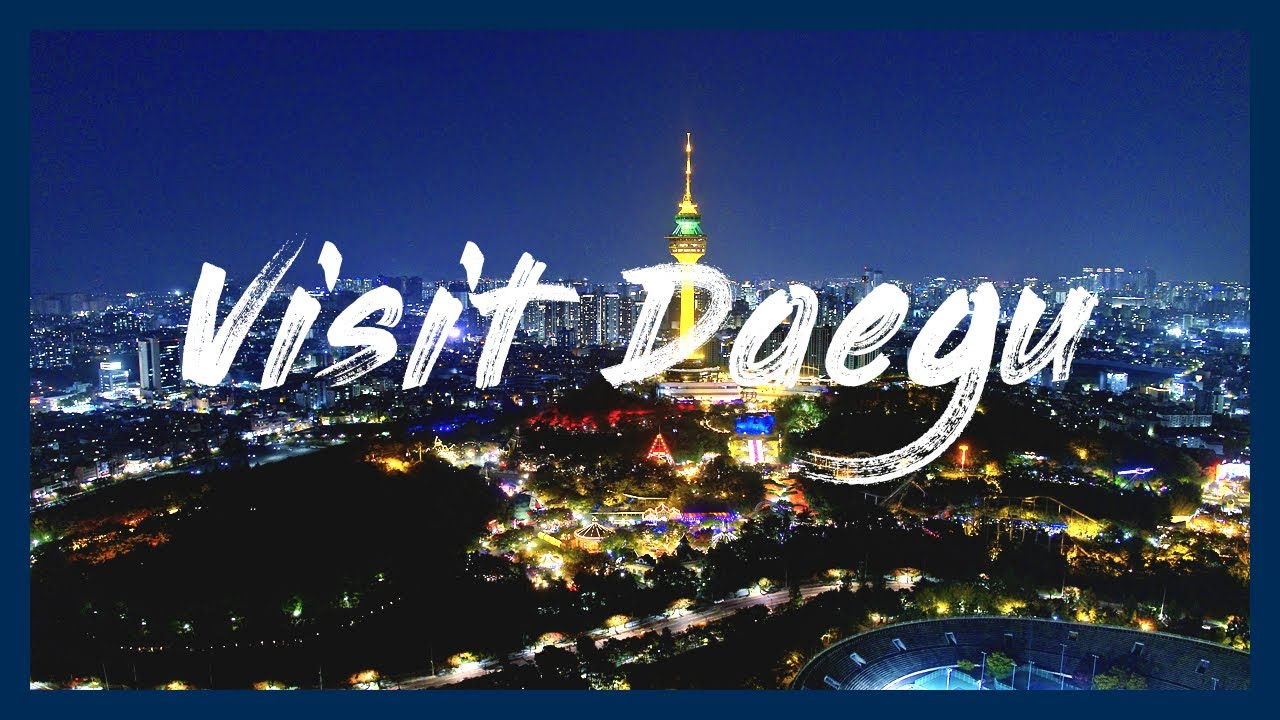
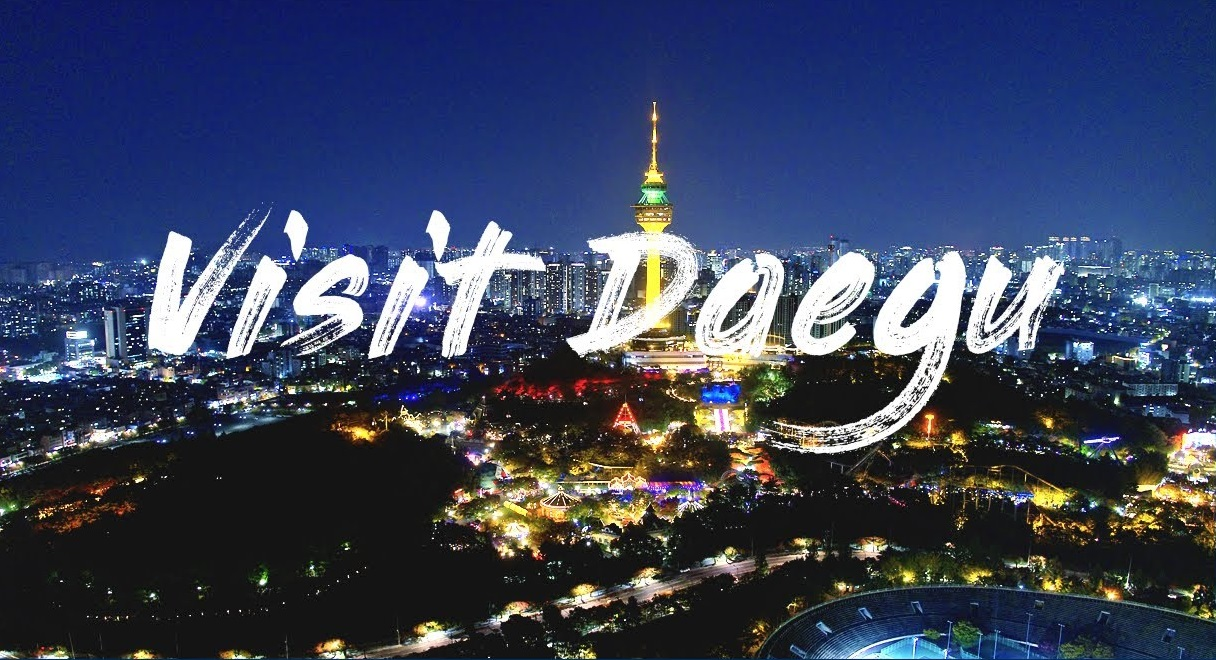
화면 왼쪽 아래 여행지 추천 배너 완성, 오른쪽 임시파일 추가, 왼쪽 임시 배너이미지 3개 추가

diff --git a/src/main/frontend/src/global/left_banner/left_banner.css b/src/main/frontend/src/global/left_banner/left_banner.css
@@ -1,0 +1,75 @@
+.left-banner {
+    position: relative; /* 배너를 상대 위치로 설정 */
+    width: 100%; /* 배너의 너비를 100%로 설정 */
+    height: 400px; /* 배너의 높이 설정 */
+    overflow: hidden; /* 이미지가 배너 영역을 벗어나는 것을 숨김 */
+    margin-top: 50px; /* 아래로 내리기 - 원하는 만큼 값 조정*/
+}
+
+.left-carousel {
+    position: relative; /* Carousel에 위치 속성을 추가 */
+    height: 100%; /* Carousel의 높이를 배너와 같게 설정 */
+}
+
+/* 슬라이드 스타일 */
+.left-carousel-slide {
+    position: absolute; /* 슬라이드를 절대 위치로 설정 */
+    top: 0;
+    left: 0;
+    width: 100%; /* 슬라이드의 너비를 100%로 설정 */
+    height: 100%; /* 슬라이드의 높이를 배너와 같게 설정 */
+    opacity: 0; /* 기본적으로 숨김 */
+    transition: opacity 1s ease-in-out; /* 부드러운 전환 효과 추가 */
+}
+
+/* 활성화된 슬라이드 표시 */
+.left-carousel-slide.active {
+    opacity: 1; /* 활성화된 슬라이드는 보이게 설정 */
+}
+
+/* 좌우 네비게이션 버튼을 배너의 이미지 안에 배치 */
+.left-control-prev,
+.left-control-next {
+    position: absolute; /* 절대 위치 설정 */
+    top: 50%; /* 이미지 중앙에 위치하도록 설정 */
+    transform: translateY(-50%); /* 세로 중앙 정렬 */
+    width: 50px; /* 버튼 크기 */
+    height: 50px; /* 버튼 크기 */
+    background-color: rgba(0, 0, 0, 0.5); /* 불투명한 배경 */
+    border-radius: 50%; /* 둥근 모양 */
+    display: flex;
+    justify-content: center;
+    align-items: center;
+    cursor: pointer; /* 마우스 커서 변경 */
+    opacity: 0; /* 기본적으로 숨김 */
+    transition: opacity 1s ease; /* 부드러운 전환 효과 */
+}
+
+/* 왼쪽 버튼 위치 조정 */
+.left-control-prev {
+    left: 10px; /* 이미지 왼쪽에 위치 */
+}
+
+/* 오른쪽 버튼 위치 조정 */
+.left-control-next {
+    right: 10px; /* 이미지 오른쪽에 위치 */
+}
+
+/* 각 슬라이드 이미지 스타일 */
+.left-banner-image {
+    width: 100%; /* 부모 요소(슬라이드)에 맞게 이미지 크기 조정 */
+    height: 100%; /* 부모 요소와 높이를 같게 설정 */
+    object-fit: cover; /* 이미지 비율 유지하며 잘리지 않도록 */
+}
+
+/* 배너에 마우스 오버 시 버튼 보이기 */
+.left-carousel:hover .left-control-prev,
+.left-carousel:hover .left-control-next {
+    opacity: 1; /* 마우스 오버 시 보이도록 설정 */
+}
+
+/* 버튼에 마우스를 올렸을 때 불투명한 검은색으로 변경 */
+.left-control-prev:hover,
+.left-control-next:hover {
+    background-color: rgba(0, 0, 0, 0.5); /* 완전 불투명한 검은색 */
+}

diff --git a/src/main/frontend/src/global/banner/Banner.css b/src/main/frontend/src/global/banner/Banner.css
@@ -1,16 +1,48 @@
+
+.carousel {
+  position: relative; /* Carousel에 위치 속성을 추가 */
+}
+
+/* 좌우 네비게이션 버튼을 배너의 아래쪽 중간에 배치 */
+.carousel .control-prev,
+.carousel .control-next {
+  position: absolute;
+  bottom: 10px; /* 하단에서 10px 떨어진 위치 */
+  width: 50px; /* 버튼 크기 */
+  height: 50px;
+  background-color: rgba(0, 0, 0, 1); /* 반투명 배경 */
+  border-radius: 50%; /* 둥근 모양 */
+  z-index: 1; /* 배너 위에 표시 */
+  display: flex;
+  justify-content: center;
+  align-items: center;
+  transform: translateY(80px); /* 버튼을 아래로 20px 이동 */
+}
+
+.carousel .control-prev {
+  left: 10px; /* 왼쪽 버튼 위치 조정 */
+}
+
+.carousel .control-next {
+  right: 10px; /* 오른쪽 버튼 위치 조정 */
+}
+
+
+
 .carousel-slide {
-  display: flex; /* Flexbox를 사용하여 이미지를 가로로 배치 */
-  justify-content: center; /* 중앙 정렬 */
-  align-items: center; /* 수직 중앙 정렬 */
+  display: flex;
+  justify-content: center;
+  align-items: center;
+  margin: 0; /* 전체 배너 슬라이드에 여백 없애기 */
 }
 
 .banner-image {
-  width: 500px; /* 이미지 너비 조정 */
-  height: 200px; /* 이미지 높이 조정 */
-  margin: 0 5px; /* 이미지 간격 조정 */
-  object-fit: cover; /* 이미지 비율 유지 */
-  border-radius: 10px; /* 모서리 둥글게 */
-  transition: transform 0.3s ease; /* 호버 시 애니메이션 효과 */
+  width: 100%; /* 부모 요소(슬라이드)에 맞게 이미지 크기 조정 */
+  height: 200px; /* 이미지 높이 동일하게 설정 */
+  object-fit: cover; /* 이미지 비율 유지하며 잘리지 않도록 */
+  margin: 0; /* 이미지 간 여백 없애기 */
+  border-radius: 0; /* 둥근 모서리 없애기 (원한다면 유지 가능) */
+  transition: transform 5s ease;
 }
 
 .banner-image:hover {

diff --git a/src/main/frontend/src/main/main.css b/src/main/frontend/src/main/main.css
@@ -1,0 +1,56 @@
+.main-container {
+    display: flex;
+    justify-content: center;
+    align-items: flex-start; /* 수직 정렬을 위쪽으로 조정 */
+    height: 100vh; /* 전체 화면 높이 사용 */
+}
+
+.left-section {
+    width: 50%; /* 왼쪽 영역 너비 */
+    padding: 20px; /* 패딩 추가 */
+    display: flex; /* flexbox 사용 */
+    flex-direction: column; /* 수직 방향으로 정렬 */
+    justify-content: flex-start; /* 위쪽 정렬 */
+    text-align: left; /* 왼쪽 정렬 */
+}
+
+.left-section h2 {
+    font-size: 20px; /* 작은 글씨 크기 */
+    margin: 0; /* 기본 여백 제거 */
+    text-decoration: none; /* 밑줄 제거 */
+    color: pink;
+}
+
+.left-section p {
+    font-size: 25px; /* 보통 글씨 크기 */
+    margin: 0; /* 기본 여백 제거 */
+}
+
+.right-section {
+    width: 50%; /* 오른쪽 영역 너비 */
+    padding: 20px; /* 패딩 추가 */
+    display: flex; /* flexbox 사용 */
+    flex-direction: column; /* 수직 방향으로 정렬 */
+    justify-content: flex-start; /* 위쪽 정렬 */
+    text-align: left; /* 왼쪽 정렬 */
+}
+
+.right-section h2 {
+    font-size: 20px; /* 왼쪽과 동일한 작은 글씨 크기 */
+    margin: 0; /* 기본 여백 제거 */
+    text-decoration: none; /* 밑줄 제거 */
+    color: pink; /* 색상 조정 (원하는 색으로 변경 가능) */
+}
+
+.right-section p {
+    font-size: 25px; /* 왼쪽과 동일한 보통 글씨 크기 */
+    margin: 0; /* 기본 여백 제거 */
+}
+
+.divider {
+    width: 2px; /* 구분선 너비 */
+    background-color: rgba(128, 128, 128, 0.5); /* 회색으로 불투명도 적용 */
+    height: 100%; /* 전체 높이 사용 */
+    align-self: stretch; /* 왼쪽과 오른쪽 영역의 높이에 맞게 늘어나도록 설정 */
+}
+

diff --git a/src/main/frontend/src/global/left_banner/left_banner.js b/src/main/frontend/src/global/left_banner/left_banner.js
@@ -1,0 +1,49 @@
+import React, { useState, useEffect } from "react";
+import "./left_banner.css";
+
+const leftBanner1 = `${process.env.PUBLIC_URL}/Image/left_banner1.png`;
+const leftBanner2 = `${process.env.PUBLIC_URL}/Image/left_banner2.png`;
+const leftBanner3 = `${process.env.PUBLIC_URL}/Image/left_banner3.png`;
+
+const banners = [leftBanner1, leftBanner2, leftBanner3];
+
+const LeftBanner = () => {
+    const [currentIndex, setCurrentIndex] = useState(0);
+
+    useEffect(() => {
+        const interval = setInterval(() => {
+            nextBanner();
+        }, 5000); // 3초마다 배너 변경
+
+        return () => clearInterval(interval);
+    }, []);
+
+    const nextBanner = () => {
+        setCurrentIndex((prevIndex) => (prevIndex + 1) % banners.length);
+    };
+
+    const prevBanner = () => {
+        setCurrentIndex((prevIndex) =>
+            (prevIndex - 1 + banners.length) % banners.length
+        );
+    };
+
+    return (
+        <div className="left-banner">
+            <div className="left-carousel">
+                {banners.map((banner, index) => (
+                    <div
+                        key={index}
+                        className={`left-carousel-slide ${index === currentIndex ? 'active' : ''}`}
+                    >
+                        <img src={banner} alt="배너" className="left-banner-image" />
+                    </div>
+                ))}
+                <button onClick={prevBanner} className="left-control-prev">◀</button>
+                <button onClick={nextBanner} className="left-control-next">▶</button>
+            </div>
+        </div>
+    );
+};
+
+export default LeftBanner;

diff --git a/src/main/frontend/src/App.js b/src/main/frontend/src/App.js
@@ -1,4 +1,4 @@
-import {Routes, Route } from 'react-router-dom';
+import { Routes, Route } from 'react-router-dom';
 import AdminLogin from './admin/js/AdminLogin.js';
 import AdminMain from './admin/js/AdminMain.js';
 import UserManagement from './admin/js/UserManagement.js';
@@ -12,11 +12,16 @@ import ReviewManagement from './admin/js/ReviewManagement.js';
 import CommentManagement from './admin/js/CommentManagement.js';
 import QnaManagement from './admin/js/QnaManagement.js';
 import AdminLogout from './admin/js/AdminLogout.js';
+import Banner from './global/banner/Banner';  // 배너 컴포넌트 추가
+
 function App() {
   return (
     <main>
       <Routes>
-        <Route path="/" element={ <><Header/><Main /></>} />
+        <Route path="/" element={ <>
+        <Header/>
+        <Banner/>
+        <Main /></>} />  {/* 헤더 밑에 배너 추가 */}
         
         {/* 어드민 페이지 */}
         <Route path="/admin" element={<><AdminHeader/><AdminMain /></>} />
@@ -28,11 +33,11 @@ function App() {
         <Route path="/admin/comment" element={<><AdminHeader/><CommentManagement /></>} />
         <Route path="/admin/qna" element={<><AdminHeader/><QnaManagement /></>} />
 
-      {/* Page Login */}
-          <Route path="/user/js/LoginMain" element={<><Header/><LoginMain/></>}/>
+        {/* Page Login */}
+        <Route path="/user/js/LoginMain" element={<><Header/><LoginMain/></>}/>
       </Routes>
-      </main>
-  )
+    </main>
+  );
 }
 
 export default App;

diff --git a/src/main/frontend/src/main/Main.js b/src/main/frontend/src/main/Main.js
@@ -1,13 +1,25 @@
 import React from "react";
+import "./main.css";
+import LeftBanner from "../global/left_banner/left_banner"; // 경로 수정
 
 class Main extends React.Component {
     render() {
         return (
-            <div>
-                <h1>메인화면입니다.</h1>
+            <div className="main-container">
+                <div className="left-section">
+                    <h2 className="small-heading">여행지 추천</h2>
+                    <p className="normal-heading">이런 곳은 어떨까요?</p>
+                    <LeftBanner />
+                </div>
+                <div className="divider"></div>
+                <div className="right-section">
+                    <h2 className="small-heading">특별한 추억!</h2>
+                    <p className="normal-heading">각종 행사에 참여해 보시는건 어떨까요?</p>
+                
+                </div>
             </div>
-        )
+        );
     }
-}  
+}
 
 export default Main;

diff --git a/src/main/frontend/src/global/footer/Footer.css b/src/main/frontend/src/global/footer/Footer.css
@@ -1,10 +1,19 @@
+/* App.css 또는 global 스타일 시트에 추가 */
+.app-container {
+  display: flex; /* 플렉스 박스를 사용 */
+  flex-direction: column; /* 세로 방향으로 정렬 */
+  min-height: 100vh; /* 화면 높이의 100% 차지 */
+}
+
+main {
+  flex: 1; /* main이 가능한 공간을 모두 차지하도록 설정 */
+}
+
+/* 기존 Footer 스타일은 유지 */
 .footer {
-    background-color: #003B54;
-    color: white;
-    text-align: center;
-    padding: 1px 0;
-    width: 100%;
-    position : absolute;
-    bottom : 0;
-  }
-  
+  background-color: #003B54;
+  color: white;
+  text-align: center;
+  padding: 10px 0; /* 상하 패딩 */
+  width: 100%; /* 전체 너비 사용 */
+}

diff --git a/src/main/frontend/src/global/header/Header.css b/src/main/frontend/src/global/header/Header.css
@@ -19,7 +19,7 @@
 }
 
 .logo {
-  width: 120px;
+  width: 130px;
 }
 
 .menu-and-search {
